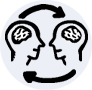
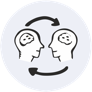
changhe 3 of the icones in the home page + tweak a little bit the design + new sub menu for the references section

diff --git a/public/stylesheets/modules/_layout.sass b/public/stylesheets/modules/_layout.sass
@@ -28,12 +28,13 @@
       +small-button
 
 #sidebar-column
-  .uber_link
-    text-decoration: none
-    h3
+  h3
+    .uber_link
+      text-decoration: none
+
       +transition(all .2s)
-    &:hover
-      h3
+
+      &:hover
         color: $orange
   #search
     input[type=text]
@@ -49,10 +50,11 @@
     font-size: 12px
     font-weight: bold
     text-transform: uppercase
-    margin-bottom: 10px
+    margin-top: 20px
+    margin-bottom: 0px
 
   ul
-    margin: 0 0 20px 0
+    margin: 10px 0 10px 0
     li
       padding: 5px
       margin: 5px 0px
@@ -70,6 +72,7 @@
       text-align: right
 
   #sidebar-column
+    min-height: 400px
     +span-columns(1 omega, 4)
     padding-left: gutter(4)
     border-left: 1px solid $medium-grey

diff --git a/public/stylesheets/modules/_search.sass b/public/stylesheets/modules/_search.sass
@@ -13,3 +13,15 @@
     .url
       margin-top: 10px
       color: $em-blue
+
+    .content
+      margin-top: 10px
+
+      p
+        font-size: 13px
+        line-height: 16px
+
+        em
+          color: #000
+          font-size: 13px
+          font-weight: bold

diff --git a/public/stylesheets/modules/_article.sass b/public/stylesheets/modules/_article.sass
@@ -35,6 +35,11 @@
       strong
         font-weight: bold
 
+      em
+        font-weight: normal
+        text-decoration: underline
+        font-size: 14px
+
     ul
       +pretty-bullets("/images/bullet.png", 5px, 5px, 27px)
       +open-sans
